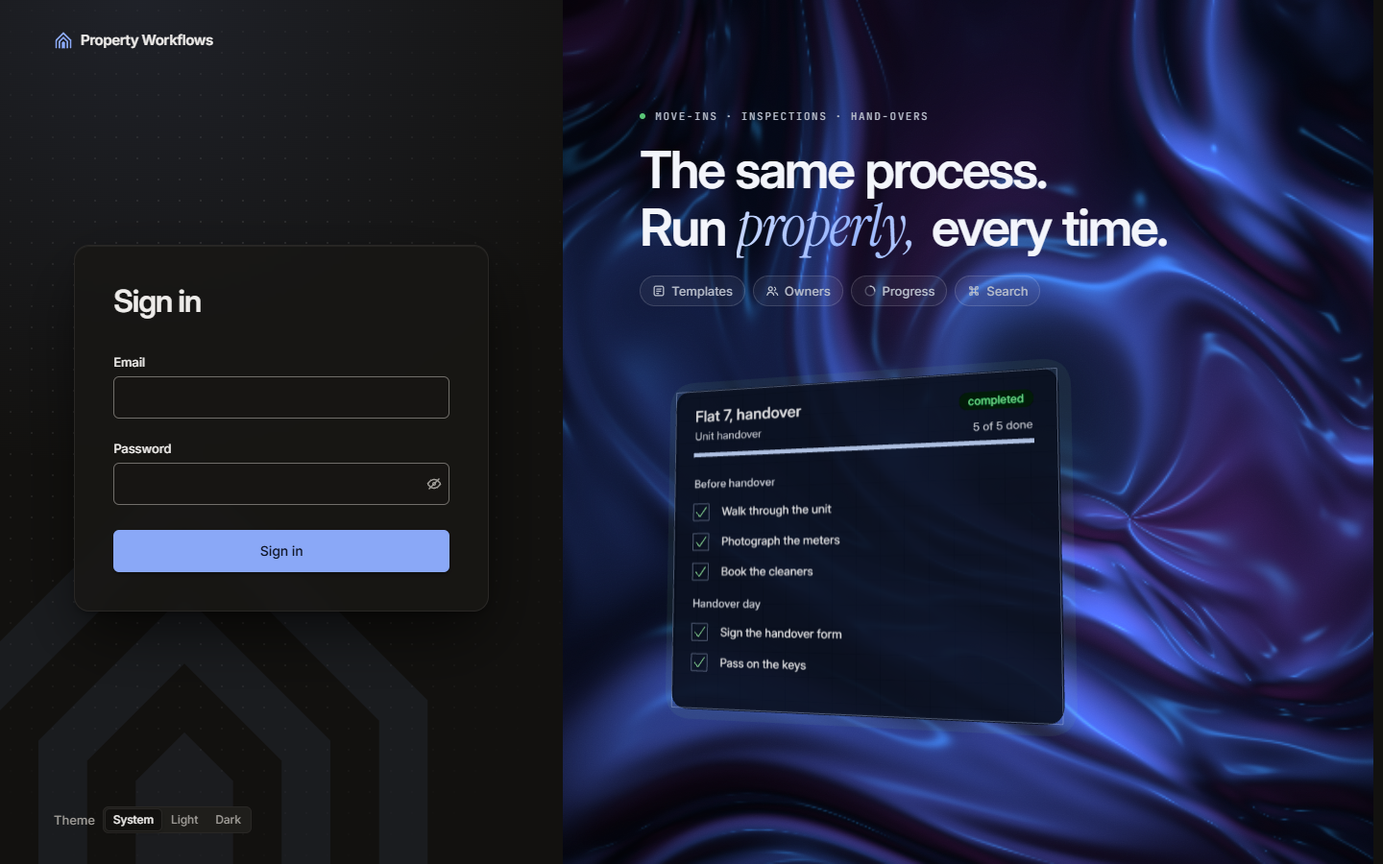
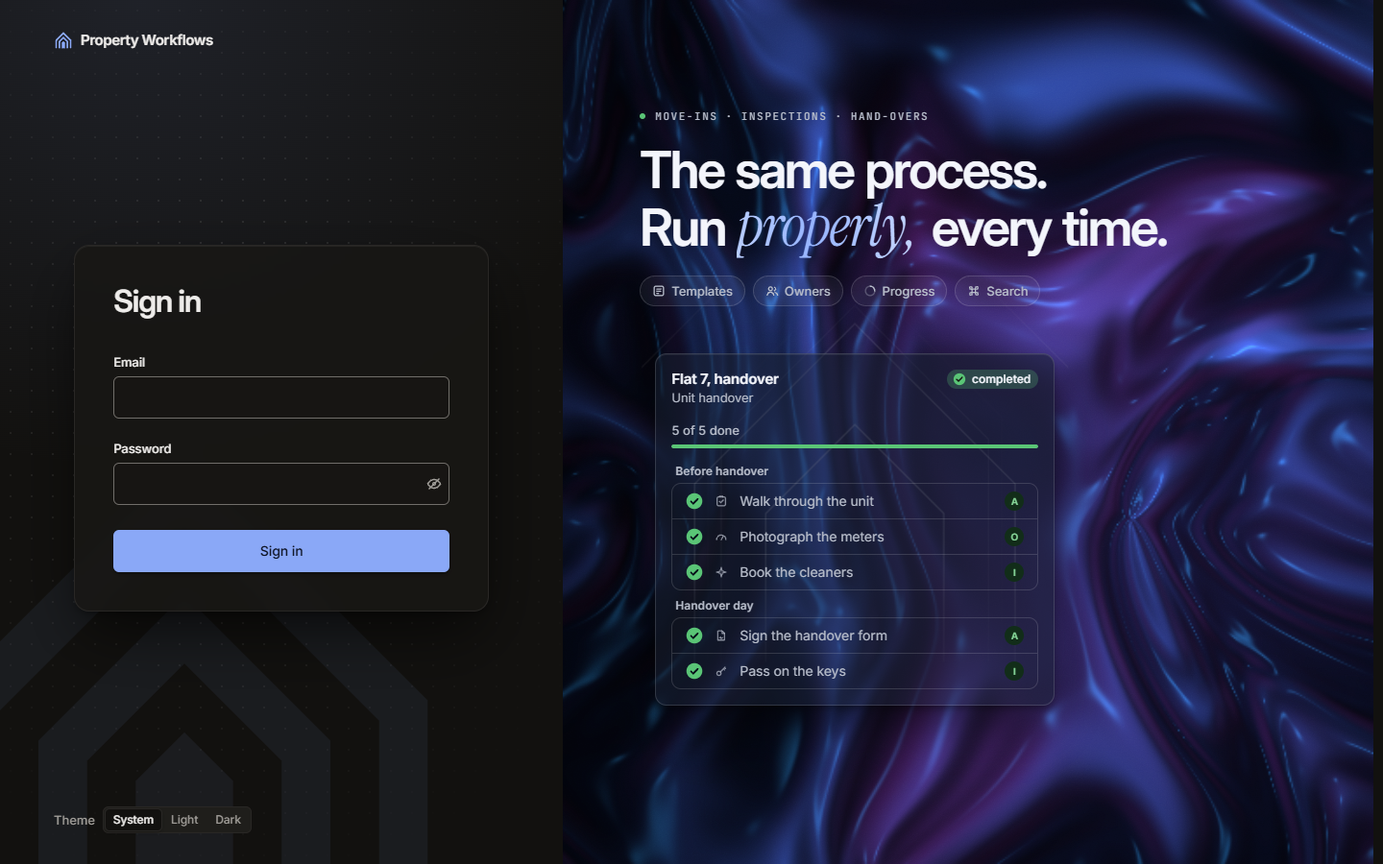
Landing: креслення → жива клікабельна картка, «ехо» даху з логотипу (#69)
* Landing: креслення передає слово живій клікабельній картці, «ехо» даху з логотипу знову на тлі

3D-креслення шаблону складається в картку (INTRO_END = 4.9 с) і змінюється живою карткою-чеклістом StoryCard з тими
самими секціями й задачами: задачі виконуються самі, далі їх можна позначати кліком (справжні <button> з
aria-pressed); по завершенні чи «Start over» — знову креслення. EchoRoofs — завжди. Reduced motion — одразу
картка «3 of 5 done». Панелі входу — overflow-clip замість overflow-hidden: «ехо» дахів виходить за край, і
фокус чи клік прокручував панель.

* Landing: «ехо» даху з логотипу — позаду картки, приглушене, з маскою (не перетинає заголовок)

---------

diff --git a/src/components/ui/hero-stage.tsx b/src/components/ui/hero-stage.tsx
@@ -1,7 +1,7 @@
 "use client";
 
 import dynamic from "next/dynamic";
-import { useEffect, useId, useRef, useState, useSyncExternalStore, type CSSProperties, type ReactNode } from "react";
+import { useCallback, useEffect, useId, useRef, useState, useSyncExternalStore, type CSSProperties, type ReactNode } from "react";
 import { cn } from "@/lib/utils";
 import { Avatar } from "./avatar";
 import { CompletionGlow } from "./completion-glow";
@@ -16,17 +16,19 @@ import {
   PlayIcon,
   ProgressIcon,
   RotateIcon,
+  SparkleIcon,
   TemplateIcon,
   UsersIcon,
 } from "./icons";
 import { StatusIcon } from "./status-badge";
 
-// Hero сторінки входу: шейдер-тло, «ехо» даху з логотипу, заголовок із серифним акцентом, чипи можливостей і скляна
-// картка, в якій чекліст «Unit handover» спершу виконується сам, а далі — за кліком користувача. Назви в картці
-// вигадані й не збігаються з шаблонами бази: відвідувач без входу не бачить вмісту шаблонів (AC-EDITOR-09).
-// Рух лише тут; поважає prefers-reduced-motion (статичний кадр «3 з 4»), має кнопку Pause (WCAG 2.2.2).
-// Головний образ — 3D «креслення, що оживає» (blueprint-scene.tsx, Three.js): вантажиться ліниво й лише в браузері;
-// поки вантажиться або без WebGL — та сама картка-чекліст StoryCard.
+// Hero сторінки входу: шейдер-тло, «ехо» даху з логотипу, що піднімається, заголовок із серифним акцентом, чипи
+// можливостей і головний образ «шаблон стає запуском»: 3D-креслення шаблону (blueprint-scene.tsx, Three.js)
+// промальовується й складається в картку, а тоді його змінює жива картка-чекліст StoryCard з тими самими рядками —
+// задачі виконуються самі, далі їх можна позначати кліком; по завершенні чи «Start over» — знову креслення.
+// Назви вигадані й не збігаються з шаблонами бази: відвідувач без входу не бачить вмісту шаблонів (AC-EDITOR-09).
+// Рух лише тут; prefers-reduced-motion — одразу картка, статичний кадр «3 of 5 done»; кнопка Pause (WCAG 2.2.2).
+// Без WebGL — лише картка.
 const BlueprintScene = dynamic(() => import("./blueprint-scene"), { ssr: false, loading: () => null });
 
 // Перевірка WebGL 2 — один раз на сторінку: пробний контекст одразу звільняємо, щоб повторні рендери не плодили
@@ -53,12 +55,25 @@ function useWebGL() {
   );
 }
 
-const TASKS: { name: string; who: string; Icon: (p: { className?: string }) => ReactNode }[] = [
-  { name: "Walk through the unit", who: "ana@example.test", Icon: ClipboardCheckIcon },
-  { name: "Photograph the meters", who: "oleh@example.test", Icon: GaugeIcon },
-  { name: "Sign the handover form", who: "ana@example.test", Icon: FileSignIcon },
-  { name: "Pass on the keys", who: "ira@example.test", Icon: KeyIcon },
+// Ті самі секції й задачі, що на 3D-картці (blueprint-scene.tsx): передача від креслення до живої картки — без стрибка змісту.
+const SECTIONS: { name: string; tasks: { name: string; who: string; Icon: (p: { className?: string }) => ReactNode }[] }[] = [
+  {
+    name: "Before handover",
+    tasks: [
+      { name: "Walk through the unit", who: "ana@example.test", Icon: ClipboardCheckIcon },
+      { name: "Photograph the meters", who: "oleh@example.test", Icon: GaugeIcon },
+      { name: "Book the cleaners", who: "ira@example.test", Icon: SparkleIcon },
+    ],
+  },
+  {
+    name: "Handover day",
+    tasks: [
+      { name: "Sign the handover form", who: "ana@example.test", Icon: FileSignIcon },
+      { name: "Pass on the keys", who: "ira@example.test", Icon: KeyIcon },
+    ],
+  },
 ];
+const TASKS = SECTIONS.flatMap((section) => section.tasks);
 
 // Лише те, що продукт уже вміє.
 const FEATURES = [
@@ -109,7 +124,12 @@ function TaskCheck({ done }: { done: boolean }) {
   );
 }
 
-function StoryCard({ playing, reduced }: { playing: boolean; reduced: boolean }) {
+/**
+ * Жива картка-чекліст. Без onRestart — самостійний цикл (без WebGL): рядки з'являються, задачі виконуються, картка
+ * згасає й починає знову. З onRestart — продовження 3D-креслення: рядки вже на місці, задачі одразу виконуються,
+ * а по завершенні чи «Start over» картка повертає слово кресленню.
+ */
+function StoryCard({ playing, reduced, onRestart }: { playing: boolean; reduced: boolean; onRestart?: () => void }) {
   const [autoDone, setAutoDone] = useState(0);
   const [cycle, setCycle] = useState(0);
   const [leaving, setLeaving] = useState(false);
@@ -122,23 +142,24 @@ function StoryCard({ playing, reduced }: { playing: boolean; reduced: boolean })
     const timers: ReturnType<typeof setTimeout>[] = [];
     let alive = true;
     const at = (ms: number, fn: () => void) => timers.push(setTimeout(() => alive && fn(), ms));
+    const lead = onRestart ? 0 : 1500;
     const run = () => {
       setLeaving(false);
       setAutoDone(0);
       setCycle((c) => c + 1);
-      for (let i = 1; i <= TASKS.length; i++) at(1500 + i * 1250, () => setAutoDone(i));
-      const end = 1500 + TASKS.length * 1250;
+      for (let i = 1; i <= TASKS.length; i++) at(lead + i * 1000, () => setAutoDone(i));
+      const end = lead + TASKS.length * 1000;
       at(end + 3200, () => setLeaving(true));
-      at(end + 3900, run);
+      at(end + 3900, onRestart ?? run);
     };
     at(0, run);
     return () => {
       alive = false;
       timers.forEach(clearTimeout);
     };
-  }, [playing, manual]);
+  }, [playing, manual, onRestart]);
 
-  // Reduced motion: статичний кадр «3 з 4», без циклу.
+  // Reduced motion: статичний кадр «3 of 5 done», без циклу.
   const flags = manual ?? TASKS.map((_, i) => i < (reduced ? 3 : autoDone));
   const done = flags.filter(Boolean).length;
   const total = TASKS.length;
@@ -206,30 +227,37 @@ function StoryCard({ playing, reduced }: { playing: boolean; reduced: boolean })
             </div>
           </div>
 
-          <ul
-            onFocus={() => !manual && setManual(flags)}
-            className="relative flex flex-col divide-y divide-stage-border overflow-hidden rounded-lg border border-stage-border"
-          >
-            {TASKS.map((task, i) => (
-              <li
-                key={`${cycle}-${task.name}`}
-                style={{ "--i": i, "--reveal-delay": "250ms" } as CSSProperties}
-                className="animate-ui-reveal"
-              >
-                <button
-                  type="button"
-                  aria-pressed={flags[i]}
-                  onClick={() => toggle(i)}
-                  className="group/task flex w-full items-center gap-3 px-3.5 py-2.5 text-left transition-ui hover:bg-stage-foreground/5 focus-visible:outline-offset-[-2px]"
-                >
-                  <TaskCheck done={flags[i]} />
-                  <task.Icon className="size-3.5 text-stage-muted/70 transition-transform duration-(--duration-base) ease-standard group-hover/task:scale-110 group-hover/task:text-stage-foreground" />
-                  <span className={cn("flex-1 text-body transition-ui", flags[i] ? "text-stage-muted" : "text-stage-foreground")}>{task.name}</span>
-                  <Avatar email={task.who} />
-                </button>
-              </li>
+          <div onFocus={() => !manual && setManual(flags)} className="relative flex flex-col gap-2">
+            {SECTIONS.map((section) => (
+              <section key={section.name} aria-label={section.name} className="flex flex-col gap-1">
+                <h3 className="px-1 text-meta font-semibold text-stage-muted">{section.name}</h3>
+                <ul className="flex flex-col divide-y divide-stage-border overflow-hidden rounded-lg border border-stage-border">
+                  {section.tasks.map((task) => {
+                    const i = TASKS.indexOf(task);
+                    return (
+                      <li
+                        key={`${cycle}-${task.name}`}
+                        style={{ "--i": i, "--reveal-delay": "250ms" } as CSSProperties}
+                        className={onRestart ? undefined : "animate-ui-reveal"}
+                      >
+                        <button
+                          type="button"
+                          aria-pressed={flags[i]}
+                          onClick={() => toggle(i)}
+                          className="group/task flex w-full items-center gap-3 px-3.5 py-2 text-left transition-ui hover:bg-stage-foreground/5 focus-visible:outline-offset-[-2px]"
+                        >
+                          <TaskCheck done={flags[i]} />
+                          <task.Icon className="size-3.5 text-stage-muted/70 transition-transform duration-(--duration-base) ease-standard group-hover/task:scale-110 group-hover/task:text-stage-foreground" />
+                          <span className={cn("flex-1 text-body transition-ui", flags[i] ? "text-stage-muted" : "text-stage-foreground")}>{task.name}</span>
+                          <Avatar email={task.who} />
+                        </button>
+                      </li>
+                    );
+                  })}
+                </ul>
+              </section>
             ))}
-          </ul>
+          </div>
         </div>
       </CompletionGlow>
 
@@ -237,7 +265,7 @@ function StoryCard({ playing, reduced }: { playing: boolean; reduced: boolean })
         {manual ? (
           <button
             type="button"
-            onClick={() => setManual(null)}
+            onClick={() => (onRestart ? onRestart() : setManual(null))}
             className="animate-ui-fade inline-flex h-6 items-center gap-1.5 rounded-full px-2 text-stage-foreground transition-ui hover:bg-stage-foreground/10"
           >
             <RotateIcon className="size-3.5" />
@@ -249,6 +277,10 @@ function StoryCard({ playing, reduced }: { playing: boolean; reduced: boolean })
   );
 }
 
+/**
+ * «Ехо» даху з логотипу: контури даху розходяться хвилями з-за картки вгору й згасають. Стоїть позаду головного
+ * образу (креслення чи картки), приглушене й з радіальною маскою — краї тануть, а не впираються в заголовок.
+ */
 function EchoRoofs({ playing, reduced }: { playing: boolean; reduced: boolean }) {
   const copies = reduced ? [0] : [0, 1, 2, 3, 4];
   return (
@@ -256,8 +288,8 @@ function EchoRoofs({ playing, reduced }: { playing: boolean; reduced: boolean })
       viewBox="0 0 24 24"
       fill="none"
       aria-hidden="true"
-      className="pointer-events-none absolute -bottom-[8%] -right-[10%] w-[82%] text-stage-foreground transition-transform duration-700 ease-standard"
-      style={{ transform: "translate(calc(var(--px, 0) * -22px), calc(var(--py, 0) * -14px))" }}
+      className="pointer-events-none absolute bottom-[14%] left-1/2 -z-10 w-[84%] text-stage-foreground/50 transition-transform duration-700 ease-standard [mask-image:linear-gradient(to_top,transparent,black_35%,black_70%,transparent)]"
+      style={{ transform: "translateX(-50%) translate(calc(var(--px, 0) * -10px), calc(var(--py, 0) * -6px))" }}
     >
       {copies.map((i) => (
         <g
@@ -275,25 +307,47 @@ function EchoRoofs({ playing, reduced }: { playing: boolean; reduced: boolean })
 
 const reveal = (i: number, delay = 150) => ({ "--i": i, "--reveal-delay": `${delay}ms` }) as CSSProperties;
 
-/** Головний образ hero: 3D-креслення, а без WebGL — картка-чекліст StoryCard. */
+/**
+ * Головний образ hero «шаблон стає запуском»: 3D-креслення складається в картку й передає слово живій картці з тими
+ * самими рядками (вона клікабельна); по завершенні чи «Start over» — знову креслення. Без WebGL і за reduced motion —
+ * лише жива картка.
+ */
 function HeroVisual({ playing, reduced }: { playing: boolean; reduced: boolean }) {
-  if (!useWebGL()) {
+  const webgl = useWebGL();
+  const [stage, setStage] = useState<"scene" | "card">("scene");
+  const [round, setRound] = useState(0);
+  const toCard = useCallback(() => setStage("card"), []);
+  const toScene = useCallback(() => {
+    setRound((r) => r + 1);
+    setStage("scene");
+  }, []);
+
+  if (!webgl || reduced) {
     return (
-      <div className="animate-ui-float">
-        <StoryCard playing={playing} reduced={reduced} />
+      <div className="relative isolate">
+        <EchoRoofs playing={playing} reduced={reduced} />
+        <div className="animate-ui-float">
+          <StoryCard playing={playing} reduced={reduced} />
+        </div>
       </div>
     );
   }
   return (
-    <div className="relative -mx-10 aspect-[4/3.3] w-[calc(100%+5rem)]" aria-hidden="true">
-      <BlueprintScene playing={playing} reduced={reduced} />
+    <div className="relative isolate -mx-10 grid aspect-[4/3.3] w-[calc(100%+5rem)] place-items-center">
+      <EchoRoofs playing={playing} reduced={reduced} />
+      <div
+        aria-hidden="true"
+        className={cn("absolute inset-0 transition-[opacity,filter] duration-500 ease-standard", stage === "card" && "opacity-0 blur-[2px]")}
+      >
+        <BlueprintScene key={round} playing={playing && stage === "scene"} reduced={reduced} onIntroEnd={toCard} />
+      </div>
+      {stage === "card" ? (
+        <div className="animate-ui-fade relative w-full max-w-[26rem]">
+          <StoryCard playing={playing} reduced={reduced} onRestart={toScene} />
+        </div>
+      ) : null}
     </div>
   );
-}
-
-/** «Ехо» дахів — лише без 3D-сцени: поруч із кресленням лінії дахів змагались би з ним. */
-function HeroRoofs({ playing, reduced }: { playing: boolean; reduced: boolean }) {
-  return useWebGL() ? null : <EchoRoofs playing={playing} reduced={reduced} />;
 }
 
 export function HeroStage() {
@@ -322,7 +376,7 @@ export function HeroStage() {
   return (
     <div
       ref={root}
-      className="group/stage relative isolate h-full min-h-dvh w-full overflow-hidden bg-stage text-stage-foreground"
+      className="group/stage relative isolate h-full min-h-dvh w-full overflow-clip bg-stage text-stage-foreground"
       onPointerMove={(event) => {
         if (reduced || !root.current) return;
         const rect = root.current.getBoundingClientRect();
@@ -331,7 +385,6 @@ export function HeroStage() {
       }}
     >
       <HeroShader playing={playing} speed={calm ? 0.25 : 1} />
-      <HeroRoofs playing={playing} reduced={reduced} />
       <svg aria-hidden="true" className="pointer-events-none absolute inset-0 size-full opacity-[0.14] mix-blend-soft-light">
         <filter id={grainId}>
           <feTurbulence type="fractalNoise" baseFrequency="0.85" numOctaves="2" stitchTiles="stitch" />

diff --git a/src/components/ui/blueprint-scene.tsx b/src/components/ui/blueprint-scene.tsx
@@ -1,9 +1,10 @@
 "use client";
 
 // 3D-сцена hero сторінки входу — «креслення, що оживає»: аркуш-креслення шаблону з сіткою промальовується лініями,
-// піднімається й складається у скляну картку запуску «Flat 7, handover», задачі виконуються по одній, запуск
-// стає «completed», картка відпливає — і цикл знову (≈12 с). Кольори — з токенів теми (--stage*, --status-done-mark),
-// тож світла й темна теми підхоплюються самі. Рух — лише коли playing; reduced motion — статичний кадр «3 of 5 done».
+// піднімається й складається у скляну картку запуску «Flat 7, handover»; з onIntroEnd у цей момент (INTRO_END)
+// передає слово живій картці HeroStage, без нього задачі виконуються по одній, запуск стає «completed», картка
+// відпливає — і цикл знову (≈12 с). Кольори — з токенів теми (--stage*, --status-done-mark), тож світла й темна теми
+// підхоплюються самі. Рух — лише коли playing; reduced motion — статичний кадр «3 of 5 done».
 // Сцена декоративна (aria-hidden у HeroStage): той самий зміст продукт показує словами в заголовку hero.
 import { Canvas, useFrame, useThree } from "@react-three/fiber";
 import { useEffect, useMemo, useRef, useState } from "react";
@@ -11,6 +12,7 @@ import * as THREE from "three";
 
 const CYCLE = 12;
 const REDUCED_FRAME = 7.3; // три задачі з п'яти вже «done»
+const INTRO_END = 4.9; // аркуш склався в картку, жодної задачі ще не позначено
 
 // Назви вигадані, як у картці HeroStage: відвідувач без входу не бачить вмісту шаблонів бази (AC-EDITOR-09).
 const CASE_NAME = "Flat 7, handover";
@@ -373,7 +375,7 @@ function buildScene(palette: Palette) {
   return { root, apply, dispose: () => disposeTree(root) };
 }
 
-function Story({ palette, playing, reduced }: { palette: Palette; playing: boolean; reduced: boolean }) {
+function Story({ palette, playing, reduced, onIntroEnd }: { palette: Palette; playing: boolean; reduced: boolean; onIntroEnd?: () => void }) {
   const scene = useMemo(() => buildScene(palette), [palette]);
   const time = useRef(reduced ? REDUCED_FRAME : 0);
   const pointer = useRef({ x: 0, y: 0 });
@@ -399,7 +401,9 @@ function Story({ palette, playing, reduced }: { palette: Palette; playing: boole
     const pinned = (window as { __blueprintT?: unknown }).__blueprintT;
     if (typeof pinned === "number") time.current = pinned % CYCLE;
     else if (playing) {
+      const before = time.current;
       time.current = (time.current + Math.min(delta, 0.25)) % CYCLE;
+      if (onIntroEnd && before < INTRO_END && time.current >= INTRO_END) onIntroEnd();
     }
     scene.apply(time.current);
     // Курсор злегка нахиляє сцену (без руху за reduced motion).
@@ -412,7 +416,7 @@ function Story({ palette, playing, reduced }: { palette: Palette; playing: boole
   return <primitive object={scene.root} />;
 }
 
-export default function BlueprintScene({ playing, reduced }: { playing: boolean; reduced: boolean }) {
+export default function BlueprintScene({ playing, reduced, onIntroEnd }: { playing: boolean; reduced: boolean; onIntroEnd?: () => void }) {
   const palette = usePalette();
   const [fontsReady, setFontsReady] = useState(false);
   useEffect(() => {
@@ -432,7 +436,7 @@ export default function BlueprintScene({ playing, reduced }: { playing: boolean;
       gl={{ antialias: true, alpha: true, powerPreference: "low-power" }}
       camera={{ position: [0, 0.15, 6.2], fov: 38 }}
     >
-      <Story palette={palette} playing={playing} reduced={reduced} />
+      <Story palette={palette} playing={playing} reduced={reduced} onIntroEnd={onIntroEnd} />
     </Canvas>
   );
 }

diff --git a/src/app/login/page.tsx b/src/app/login/page.tsx
@@ -27,7 +27,7 @@ export default async function LoginPage({ searchParams }: PageProps<"/login">) {
       >
         <LogoMark className="absolute -bottom-6 -right-4 size-32 text-stage-foreground/15" />
       </div>
-      <section className="relative isolate flex flex-col overflow-hidden px-6 py-8 sm:px-14">
+      <section className="relative isolate flex flex-col overflow-clip px-6 py-8 sm:px-14">
         {/* Фактура панелі: м'яке сяйво primary зверху й точкова сітка, що розчиняється до краю. Лише токени. */}
         <div
           aria-hidden="true"

diff --git a/DESIGN.md b/DESIGN.md
@@ -10,7 +10,7 @@
 
 Інтерфейс для менеджерів і адміністраторів нерухомості: вони щодня запускають шаблони, ведуть задачі й дивляться, де застряг запуск. Основне місце роботи — робочий стіл, тому щільність як у Linear: рядки 32–44 px, контроли 32 px, мало рамок, структура відчувається, а не малюється. Тон: **спокійний, діловий, теплий, уважний**. Нейтралі теплі (відтінок 80–85), акцент — приглушений indigo (відтінок 268), що майже протилежний теплим сірим і тому читається чисто. Уникаємо: кричущих градієнтів на робочих екранах, емодзі як маркерів, сирих кольорів, пастельного «розмитого» тла замість змісту.
 
-Єдиний навмисно «кінематографічний» екран — вхід: сцена зі шовковим WebGL-шейдером (світла в світлій темі, темна в темній), і 3D-сценою «креслення, що оживає» (Three.js): аркуш-креслення шаблону з сіткою промальовується лініями, піднімається й складається у скляну картку запуску «Flat 7, handover» (вигадані назви, не з бази — AC-EDITOR-09), задачі виконуються по одній, запуск стає «completed» з м'яким спалахом, картка відпливає — цикл ≈12 с; курсор злегка нахиляє сцену. Без WebGL — «ехо» даху з логотипу і картка, у якій чекліст сам виконується. Це перша мить продукту. Усередині рух стриманий: 120–240 мс, ease-out, без перельоту на кольорі й прозорості. Сторінка з'являється з легким підйомом (240 мс), лічильники на головній «набираються» від нуля, кільце й смужка прогресу домальовуються, списки з'являються каскадом (перші 8, по 24 мс), `Select` закривається 140 мс. Усе зникає за `prefers-reduced-motion`. Тема — вибір «Theme»: System (за замовчуванням, слідує за виглядом пристрою через `prefers-color-scheme`), Light, Dark. Вибір лежить на пристрої (`localStorage`, ключ `pw.theme`), не в профілі, і діє на всіх сторінках, зокрема на вході; `data-theme` на `<html>` виставляє вбудований скрипт у `<head>` до першого малювання (без спалаху), для System атрибута немає.
+Єдиний навмисно «кінематографічний» екран — вхід: сцена зі шовковим WebGL-шейдером (світла в світлій темі, темна в темній), і 3D-сценою «креслення, що оживає» (Three.js): аркуш-креслення шаблону з сіткою промальовується лініями, піднімається й складається у скляну картку запуску «Flat 7, handover» (вигадані назви, не з бази — AC-EDITOR-09) і передає слово живій картці-чеклісту з тими самими секціями й задачами: задачі виконуються по одній, запуск стає «completed» з м'яким спалахом, а далі задачі можна позначати кліком; по завершенні чи «Start over» — знову креслення («шаблон стає запуском»). Курсор злегка нахиляє сцену; з-за креслення чи картки хвилями піднімається приглушене «ехо» даху з логотипу (краї згасають маскою, заголовка не перетинає). Без WebGL — «ехо» даху і жива картка. Це перша мить продукту. Усередині рух стриманий: 120–240 мс, ease-out, без перельоту на кольорі й прозорості. Сторінка з'являється з легким підйомом (240 мс), лічильники на головній «набираються» від нуля, кільце й смужка прогресу домальовуються, списки з'являються каскадом (перші 8, по 24 мс), `Select` закривається 140 мс. Усе зникає за `prefers-reduced-motion`. Тема — вибір «Theme»: System (за замовчуванням, слідує за виглядом пристрою через `prefers-color-scheme`), Light, Dark. Вибір лежить на пристрої (`localStorage`, ключ `pw.theme`), не в профілі, і діє на всіх сторінках, зокрема на вході; `data-theme` на `<html>` виставляє вбудований скрипт у `<head>` до першого малювання (без спалаху), для System атрибута немає.
 
 ## 2. Кольори
 
@@ -159,7 +159,7 @@
 | `FlashNotice` | `kind` `success` / `error`; `clear`; `quiet` | відгук на дію з параметра адреси після серверної дії: показується один раз і прибирає параметр з адреси (не повертається після перезавантаження й «назад»); `quiet` — лише для скрінрідера, коли видимий відгук дає сама сторінка («<задача>: done») |
 | Нагадування біля «Runs» | `openTasks` в `AppShell` | замість листів: число моїх задач «to do» на пункті «Runs» (бічна панель і мобільна смуга), для скрінрідера — «N open tasks assigned to you»; нуль — нічого |
 | `Logo`, `LogoMark` | — | знак «Echo Roof» у `primary`; без жодного кольору поза токенами |
-| `HeroStage`, `HeroShader`, `BlueprintScene` | — | лише вхід: шейдер із кольорами `--stage*`, чипи можливостей (лише назви); `BlueprintScene` — 3D-креслення (Three.js, `@react-three/fiber`), вантажиться ліниво й лише на `/login`, кольори бере з токенів поточної теми (`--stage*`, `--status-done*`), власних кольорів немає; без WebGL — чекліст, що виконується сам, а за кліком — користувачем («Start over») |
+| `HeroStage`, `HeroShader`, `BlueprintScene` | — | лише вхід: шейдер із кольорами `--stage*`, чипи можливостей (лише назви); `BlueprintScene` — 3D-креслення (Three.js, `@react-three/fiber`), вантажиться ліниво й лише на `/login`, кольори бере з токенів поточної теми (`--stage*`, `--status-done*`), власних кольорів немає; креслення складається в картку й передає слово живій картці (`StoryCard`, ті самі секції й задачі), задачі виконуються самі, а за кліком — користувачем («Start over» — знову креслення); «ехо» даху з логотипу — позаду картки, приглушене, з маскою; без WebGL — лише жива картка |
 | `icons` | `HomeIcon`, `TemplateIcon`, `UsersIcon`, `GaugeIcon`, `KeyIcon`… | лінійні 16 px, штрих 1.5, `currentColor`; лише декор, підпис завжди поруч |
 
 ## 6. Стани
@@ -194,8 +194,8 @@
 - Контраст — таблиця в розділі 2, перевіряється скриптом.
 - Статус ніколи не лише кольором: іконка іншої форми й слово.
 - Спершу семантичний HTML: `<button>`, `<table>`, `<dialog>`, `<fieldset>`+`<legend>`; `aria-*` — де HTML бракує.
-- Рух: усе декоративне вимикається за `prefers-reduced-motion` (hero — статичний кадр «3 of 5 done», без WebGL — «3 з 4»); анімація входу довша за 5 с має кнопку «Pause animation» (WCAG 2.2.2); без WebGL лишається CSS-фон і картка-чекліст.
-- Hero: 3D-сцена — декор (`aria-hidden`), зміст продукту несуть заголовок і чипи; у запасній картці (без WebGL) задачі — справжні `<button>` з `aria-pressed`, доступні з клавіатури, фокус усередині картки зупиняє автопоказ. Чипи можливостей — статичний декор без опису.
+- Рух: усе декоративне вимикається за `prefers-reduced-motion` (hero — одразу жива картка, статичний кадр «3 of 5 done»); анімація входу довша за 5 с має кнопку «Pause animation» (WCAG 2.2.2); без WebGL лишається CSS-фон і картка-чекліст.
+- Hero: 3D-сцена — декор (`aria-hidden`), зміст продукту несуть заголовок і чипи; у живій картці задачі — справжні `<button>` з `aria-pressed`, доступні з клавіатури, фокус усередині картки зупиняє автопоказ. Панелі входу обрізають «ехо» дахів через `overflow-clip`, а не `overflow-hidden`: фокус чи клік не прокручує панель. Чипи можливостей — статичний декор без опису.
 - Пароль: можна вставляти й користуватись менеджером паролів; «Show / Hide»; підказка «Caps Lock is on.» (`aria-live`).
 
 ## Відгук на дію й видимість тексту
